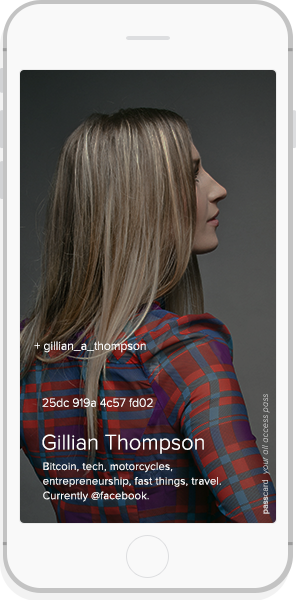
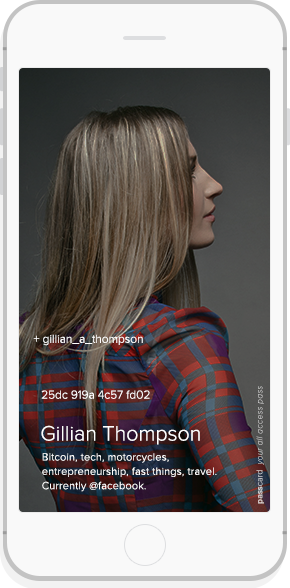
updated css widths by wrapping images so they are both max-width and responsive

diff --git a/dist/views/main.html b/dist/views/main.html
@@ -9,4 +9,4 @@
           c1.9,2.5,3.2,4.7,4.1,6.7l1.3,3c1.1,3.3,3,6,5.7,8.1c2.7,2.1,5.6,3.4,8.6,4c3.1,0.6,6.1,0.9,9,0.9c2.9,0.1,5.3-0.1,7.2-0.5l3-0.5
           c0,3.4,0,7.3,0.1,11.8c0,4.5,0.1,6.9,0.1,7.1c0,1.6-0.5,2.9-1.7,4c-1.1,1.1-2.8,1.4-5.2,0.9c-19.9-6.8-36.2-19-48.8-36.7
           C7.3,144.5,1,124.6,1,102.5c0-18.4,4.4-35.4,13.3-50.9c8.9-15.6,20.9-27.9,36-36.9C65.5,5.5,82,1,100,1s34.5,4.5,49.7,13.6
-          c15.2,9.1,27.2,21.4,36,36.9C194.6,67.1,199,84.1,199,102.5z"/> </g> </svg> </a> </div> <section class=""> <div class="container"> <div class="row"> <div class="container col-md-6 feat-lft featurette"> <div class="container wrap-mob-featpassmini"> <img ng-src="/images/feature-passcard-mini.png" class="img-responsive" alt="Responsive image"> </div> <hgroup> <h2 class="feature"><a href="/enterprise">What is a passcard?</a></h2> <h3 class="feature"><a href="/enterprise">Your all access pass to everything.</a> </h3></hgroup> <p class="lead"><a href="/registrars" class="btn btn-default btn-lg btn-transparent">Learn more</a></p> <img ng-src="/images/arrow-down.png" class="img-responsive col-centered arrow-learn-more" alt="Responsive image"> </div> <div class="container col-md-6 feat-rgt featurette"> <div class="container wrap-mob-featdecentralized"> <img ng-src="/images/feature-decentralized.png" class="img-responsive" alt="Responsive image"> </div> <hgroup> <h2 class="feature"><a href="/enterprise">Decentralized identity</a></h2> <h3 class="feature"><a href="/enterprise">A system giving users control of their identity.</a> </h3></hgroup> <p class="lead"><a href="/registrars" class="btn btn-default btn-lg btn-transparent">Learn more</a></p> <img ng-src="/images/arrow-down.png" class="img-responsive col-centered arrow-learn-more" alt="Responsive image"> </div> </div> </div> </section> <section class="inverted"> <div class="container"> <div class="row"> <div class="container col-xs-11 col-centered"> <hgroup> <h2 class="content">Your passwords, wallet & keys help you access your life.</h2> </hgroup> <img ng-src="/images/objects.png" class="img-responsive col-centered" alt="Responsive image"> </div> </div> </div> </section> <section class="component"> <div class="container"> <div class="row"> <div class="container col-xs-11 col-centered"> <hgroup> <h2 class="content">What if you could replace them all with your passcard?</h2> </hgroup> <img ng-src="/images/iph6-front-back.png" class="img-responsive col-centered" alt="Responsive image"> </div> </div> </div> </section> <section class="inverted"> <div class="container"> <div class="row"> <div class="container col-xs-11 col-centered"> <hgroup> <h2 class="content">Login to your favorite websites without the frustration of passwords.</h2> </hgroup> <img ng-src="/images/iph6-browser.png" class="img-responsive col-centered" alt="Responsive image"> </div> </div> </div> </section> <section class="component"> <div class="container"> <div class="row"> <div class="container col-xs-11 col-centered"> <hgroup> <h2 class="content">Access everything in your life easier than before.</h2> </hgroup> <img ng-src="/images/apl-watch-wireless.png" class="img-responsive col-centered" alt="Responsive image"> </div> </div> </div> </section> <section class="inverted"> <div class="container"> <div class="row"> <div class="container col-xs-11 col-centered"> <hgroup> <h2 class="content">The future of identification is here.</h2> </hgroup> <img ng-src="/images/iph6-apl-watch.png" class="img-responsive col-centered" alt="Responsive image"> </div> </div> </div> </section> <div class="bs-docs-featurette" id="learnmore"> <div class="container col-md-7 col-centered"> <h2>No More Walled Gardens</h2> <p class="lead col-md-10 col-centered">At first, you'll be able to present your digital passport when logging into applications, and eventually you'll be able to use it when asked to present identification in an in-person context (as you would with a passport or driver's license).</p> <div class="row works"> <div class="col-sm-4 feature-panel"> <img ng-src="/images/icon-decentralized.png" class="img-responsive col-centered" alt="Responsive image"> <h3>Decentralized</h3> <p class="lead">There is no central authority or point of failure. Users control their identities and data and can use the apps and services they want.</p> </div> <div class="col-sm-4 feature-panel"> <img ng-src="/images/icon-open-source.png" class="img-responsive col-centered" alt="Responsive image"> <h3>Open Source</h3> <p class="lead">The community's commitment to open source software provides a strong on-ramp for developers to build applications.</p> </div> <div class="col-sm-4 feature-panel"> <img ng-src="/images/icon-blockchain-secured.png" class="img-responsive col-centered" alt="Responsive image"> <h3>Blockchain Secured</h3> <p class="lead">User identities are validated and secured by the blockchain, ensuring user-provided information can't be tampered with.</p> </div> </div> </div> </div> <section class="feature-action"> <div class="container"> <div class="row"> <div class="container col-xs-11 col-centered"> <hgroup> <h2 class="action-title">Get a passcard today</h2> <p class="lead col-md-10 col-centered">Choose a registrar, create your passcard and take back your identity.</p> </hgroup> <p class="lead lead-margin"><a href="/registrars" class="btn btn-default btn-lg color-drkblue btn-action">Choose a Registrar</a></p> </div> </div> </div> </section>
+          c15.2,9.1,27.2,21.4,36,36.9C194.6,67.1,199,84.1,199,102.5z"/> </g> </svg> </a> </div> <section class=""> <div class="container"> <div class="row"> <div class="container col-md-6 feat-lft featurette"> <div class="container wrap-mob-featpassmini"> <img ng-src="/images/feature-passcard-mini.png" class="img-responsive" alt="Responsive image"> </div> <hgroup> <h2 class="feature"><a href="/enterprise">What is a passcard?</a></h2> <h3 class="feature"><a href="/enterprise">Your all access pass to everything.</a> </h3></hgroup> <p class="lead"><a href="/registrars" class="btn btn-default btn-lg btn-transparent">Learn more</a></p> <img ng-src="/images/arrow-down.png" class="img-responsive col-centered arrow-learn-more" alt="Responsive image"> </div> <div class="container col-md-6 feat-rgt featurette"> <div class="container wrap-mob-featdecentralized"> <img ng-src="/images/feature-decentralized.png" class="img-responsive" alt="Responsive image"> </div> <hgroup> <h2 class="feature"><a href="/enterprise">Decentralized identity</a></h2> <h3 class="feature"><a href="/enterprise">A system giving users control of their identity.</a> </h3></hgroup> <p class="lead"><a href="/registrars" class="btn btn-default btn-lg btn-transparent">Learn more</a></p> <img ng-src="/images/arrow-down.png" class="img-responsive col-centered arrow-learn-more" alt="Responsive image"> </div> </div> </div> </section> <section class="inverted"> <div class="container"> <div class="row"> <div class="container col-xs-11 col-centered"> <hgroup> <h2 class="content">Your passwords, wallet & keys help you access your life.</h2> </hgroup> <div class="container wrap-mob-sections"> <img ng-src="/images/objects.png" class="img-responsive col-centered" alt="Responsive image"> </div> </div> </div> </div> </section> <section class="component"> <div class="container"> <div class="row"> <div class="container col-xs-11 col-centered"> <hgroup> <h2 class="content">What if you could replace them all with your passcard?</h2> </hgroup> <div class="container wrap-mob-sections"> <img ng-src="/images/iph6-front-back.png" class="img-responsive col-centered" alt="Responsive image"> </div> </div> </div> </div> </section> <section class="inverted"> <div class="container"> <div class="row"> <div class="container col-xs-11 col-centered"> <hgroup> <h2 class="content">Login to your favorite websites without the frustration of passwords.</h2> </hgroup> <div class="container wrap-mob-sections"> <img ng-src="/images/iph6-browser.png" class="img-responsive col-centered" alt="Responsive image"> </div> </div> </div> </div> </section> <section class="component"> <div class="container"> <div class="row"> <div class="container col-xs-11 col-centered"> <hgroup> <h2 class="content">Access everything in your life easier than before.</h2> </hgroup> <div class="container wrap-mob-sections"> <img ng-src="/images/apl-watch-wireless.png" class="img-responsive col-centered" alt="Responsive image"> </div> </div> </div> </div> </section> <section class="inverted"> <div class="container"> <div class="row"> <div class="container col-xs-11 col-centered"> <hgroup> <h2 class="content">The future of identification is here.</h2> </hgroup> <div class="container wrap-mob-sections"> <img ng-src="/images/iph6-apl-watch.png" class="img-responsive col-centered" alt="Responsive image"> </div> </div> </div> </div> </section> <div class="bs-docs-featurette" id="learnmore"> <div class="container col-md-7 col-centered"> <h2>No More Walled Gardens</h2> <p class="lead col-md-10 col-centered">At first, you'll be able to present your digital passport when logging into applications, and eventually you'll be able to use it when asked to present identification in an in-person context (as you would with a passport or driver's license).</p> <div class="row works"> <div class="col-sm-4 feature-panel"> <img ng-src="/images/icon-decentralized.png" class="img-responsive col-centered" alt="Responsive image"> <h3>Decentralized</h3> <p class="lead">There is no central authority or point of failure. Users control their identities and data and can use the apps and services they want.</p> </div> <div class="col-sm-4 feature-panel"> <img ng-src="/images/icon-open-source.png" class="img-responsive col-centered" alt="Responsive image"> <h3>Open Source</h3> <p class="lead">The community's commitment to open source software provides a strong on-ramp for developers to build applications.</p> </div> <div class="col-sm-4 feature-panel"> <img ng-src="/images/icon-blockchain-secured.png" class="img-responsive col-centered" alt="Responsive image"> <h3>Blockchain Secured</h3> <p class="lead">User identities are validated and secured by the blockchain, ensuring user-provided information can't be tampered with.</p> </div> </div> </div> </div> <section class="feature-action"> <div class="container"> <div class="row"> <div class="container col-xs-11 col-centered"> <hgroup> <h2 class="action-title">Get a passcard today</h2> <p class="lead col-md-10 col-centered">Choose a registrar, create your passcard and take back your identity.</p> </hgroup> <p class="lead lead-margin"><a href="/registrars" class="btn btn-default btn-lg color-drkblue btn-action">Choose a Registrar</a></p> </div> </div> </div> </section>

diff --git a/dist/styles/main.0a514ec3.css b/dist/styles/main.0a514ec3.css
@@ -1,0 +1,5 @@
+/*!
+ * Bootstrap v3.3.2 (http://getbootstrap.com)
+ * Copyright 2011-2015 Twitter, Inc.
+ * Licensed under MIT (https://github.com/twbs/bootstrap/blob/master/LICENSE)
+ *//*! normalize.css v3.0.2 | MIT License | git.io/normalize */.group,.group:after{display:block}.lead,h1,h2,h3,h4,h5{font-weight:100}body,h1,h2,h3,h4,h5{font-family:proxima-nova,sans-serif}.site-wrapper,.st-container{min-height:100%}::selection{background:rgba(255,255,255,.15);color:#fff}::-moz-selection{background:rgba(255,255,255,.15);color:#fff}.group:after{visibility:hidden;font-size:0;content:" ";clear:both;height:0}* html .group{height:1%}.docs-container{text-align:left}.markdown-section img{max-width:100%}a,a:focus,a:hover{color:rgba(255,255,255,1)}.lead{font-size:15px}h2{font-size:24px;line-height:34px;margin-top:20px;margin-bottom:20px}.color-blue,.color-ltblue{color:rgba(0,102,255,1)}.color-drkblue{color:rgba(1,68,145,1)}.btn-default{text-shadow:none;border:none;border-radius:3px;transition:all 25ms linear}.btn-lg{padding:12px 33px 10px;font-size:10px;font-weight:400;text-transform:uppercase;letter-spacing:.5px}.btn-default:active,.btn-default:focus,.btn-default:hover{border:none;background-color:rgba(255,255,255,.5);outline:0!important;box-shadow:none}.btn-default.color-blue:active,.btn-default.color-blue:focus,.btn-default.color-blue:hover{color:rgba(0,102,255,1)}.btn-default.color-drkblue:active,.btn-default.color-drkblue:focus,.btn-default.color-drkblue:hover{color:rgba(1,68,145,1)}.btn-transparent{padding:10px;font-size:9px;background-color:transparent;color:rgba(138,197,255,1)}.btn-transparent:active,.btn-transparent:focus,.btn-transparent:hover{border:none;background-color:transparent;color:rgba(255,255,255,1);outline:0!important;box-shadow:none}.btn-transparent,.btn-transparent:active,.btn-transparent:focus,.btn-transparent:hover{font-weight:300}.lead-margin{margin-bottom:12px}body,html{height:auto!important}body{color:#fff;text-align:center;font-weight:100!important}.site-wrapper{display:table;width:100%;height:100%;box-shadow:inset 0 0 100px rgba(0,0,0,.5)}.site-wrapper-inner{display:table-cell;vertical-align:top}.cover-container{margin-right:auto;margin-left:auto;height:100%}.inner{padding:20px}.githublink{position:absolute;top:15px;right:15px;border:0;width:18px;height:18px;fill:rgba(255,255,255,1)}.githublink:hover{fill:rgba(255,255,255,.5)}.no-csstransforms3d .st-pusher,.no-js .st-pusher{padding-left:0}.st-menu ul{margin-bottom:10px}.st-menu{width:256px;text-align:left;background:#1d1f20;background:linear-gradient(to bottom,#1d1f20 0,#404348 100%);filter:progid:DXImageTransform.Microsoft.gradient(startColorstr='#1d1f20', endColorstr='#404348', GradientType=0)}.st-menu ul li a:hover,.st-menu ul li:first-child a:focus{color:rgba(255,255,255,1);text-decoration:none;background-color:rgba(255,255,255,.1);transition:none}.st-menu ul li a,.st-menu ul li:first-child a{box-shadow:none;color:#fff;display:block;padding:10px 20px;text-transform:none;font-weight:200;letter-spacing:0;font-size:100%/1.4em}.st-menu h2{color:rgba(255,255,255,.75);font-size:17px;margin:10px 0}.st-effect-3.st-menu-open .st-pusher{-webkit-transform:translate3d(256px,0,0);transform:translate3d(256px,0,0)}.menu-section-list{padding:0;margin:10px 0!important;list-style:none}.menu-section{margin:25px 0}.menu a{color:#fff}.menu-header{border-bottom:1px solid #2a2d2f;padding:20px 0 20px 20px;background-size:32px}.menu-section-title{text-transform:uppercase;color:#85888d;font-weight:200;font-size:12px;letter-spacing:1px;padding:0 20px;margin:0}.menu-header-title{margin:0 0 0 10px}.twitter-hashtag-button{margin-left:20px}.jumbotron{margin-top:30px!important;padding:40px 25px;border-radius:6px;background-color:#F2F2F0;margin-bottom:300px!important;box-shadow:rgba(0,0,0,.1)0 0 25px}.jumbotron .lead{color:#343434;font-weight:300;letter-spacing:0}h1.passregistrar{color:#343434;font-weight:300!important;letter-spacing:0;font-size:24px}h2.feature a{font-weight:200;letter-spacing:0;font-size:20px;text-decoration:none}h3.feature a{font-weight:100;letter-spacing:0;font-size:14px;text-decoration:none}a.btn.btn-primary.btn-lg.btn-registrar{font-weight:500!important;display:block;margin:8px;background-color:#2c96ff;border-color:transparent}a.btn.btn-primary.btn-lg.btn-registrar:hover{background-color:#2378cc;border-color:transparent}.navbar-inverse .navbar-toggle,.navbar-inverse .navbar-toggle:active,.navbar-inverse .navbar-toggle:focus,.navbar-inverse .navbar-toggle:hover{float:left;padding:9px 11px;border-color:transparent;margin:7px 2px;background:0 0}.navbar-toggle .icon-bar{display:block;width:12px;height:1px;border-radius:1px;background-color:#fff}.starter-template{padding:40px 15px;text-align:center}.navbar-brand{font-size:16px;font-weight:300;padding-bottom:5px;margin-left:-53px}.component,.inverted{padding-top:60px;padding-bottom:40px}.col-centered{float:none;margin:15px auto}.navbar-inverse .navbar-nav>li>a{padding-top:16px;font-size:13px;color:rgba(255,255,255,1)}.navbar-inverse{background:0 0;border-color:transparent}.navbar-inverse .navbar-brand{color:rgba(255,255,255,1);float:none}.navbar-toggle .icon-bar+.icon-bar{margin-top:3px}.navbar-inverse .navbar-brand:focus,.navbar-inverse .navbar-brand:hover,.navbar-inverse .navbar-nav>li>a:focus,.navbar-inverse .navbar-nav>li>a:hover{color:rgba(255,255,255,.5)}.cover h1,.cover p{font-weight:100;margin-top:0}.masthead-brand{margin-top:10px;margin-bottom:10px}.masthead-nav>li{display:inline-block}.masthead-nav>li+li{margin-left:20px}.masthead-nav>li>a{padding-right:0;padding-left:0;font-size:16px;color:#fff;color:rgba(255,255,255,.75);border-bottom:2px solid transparent}.masthead-nav>li>a:focus,.masthead-nav>li>a:hover{background-color:transparent;border-bottom-color:#a9a9a9;border-bottom-color:rgba(255,255,255,.25)}.masthead-nav>.active>a,.masthead-nav>.active>a:focus,.masthead-nav>.active>a:hover{color:#fff;border-bottom-color:#fff}.conatainer-fluid.col-centered ul{list-style:none}.navbar{margin-bottom:0}.st-content{background:0 0}.featurette>img.feat-img{padding-left:10%;padding-right:10%}.feat-lft{background-color:rgba(38,125,255,1)}.feat-rgt{background-color:rgba(0,87,217,1)}.inverted{background-color:rgba(33,33,33,1)}.component{background-color:rgba(0,102,255,1)}h2.content{font-weight:100;letter-spacing:0;font-size:24px;margin-bottom:60px}.cover-heading{font-size:22px;margin-bottom:28px}.bs-docs-featurette{padding-top:40px;padding-bottom:40px;font-size:16px;line-height:1.5;text-align:center;background-color:rgba(38,125,255,1)}.bs-docs-featurette-title{margin-bottom:5px;font-size:30px}.feature-panel{margin:40px 0}.feature-panel>img{margin:0;padding:0 18%}.feature-panel>h3{margin-bottom:10px;display:block;font-size:1.17em}.works{margin-top:30px;margin-bottom:30px;padding:0 12%}.inner.cover{padding-bottom:0;padding-top:90px;margin-bottom:0;margin-top:-90px;background-color:rgba(0,102,255,1)}.solid{background-color:#3a73cd;color:#fff}.feature-action{background-color:rgba(1,68,145,1)}.action-title{margin-top:120px}.btn-action{margin-top:50px;margin-bottom:180px}img.arrow-down{width:12px;padding-bottom:13px}.btn-works img{margin-top:-21px}img.arrow-learn-more{padding-left:48%;padding-right:48%}.arrow-learn-more{margin-top:-18px!important;margin-bottom:25px!important}.img-re-constraint{max-width:90%}.wrap-mob-hero{max-width:320px;margin-bottom:50px;margin-left:auto;margin-right:auto}.wrap-mob-featdecentralized,.wrap-mob-featpassmini{max-width:330px}.wrap-mob-sections{max-width:430px}.mastfoot{position:relative;color:rgba(255,255,255,.5);font-size:12px;height:100px;width:100%;background-color:#222}@media (min-width:768px){.masthead-brand{float:left}.masthead-nav{float:right}.jumbotron{width:404px;margin-top:100px!important}.masthead{position:fixed;top:0}.mastfoot{position:relative}.cover-container,.mastfoot,.masthead{width:100%}.navbar-inverse .navbar-brand{float:left}.navbar-text{float:left;margin:18px 35px 15px 0}.navbar-inverse .navbar-toggle,.navbar-inverse .navbar-toggle:active,.navbar-inverse .navbar-toggle:focus,.navbar-inverse .navbar-toggle:hover{float:left;display:block;padding:9px 11px;border-color:transparent;margin:20px 10px;background:0 0}.container-fluid>.navbar-collapse,.container-fluid>.navbar-header,.container>.navbar-collapse,.container>.navbar-header{margin-left:-15px;margin-right:20px}.col-centered{margin:10px auto}.cover{padding:30px 20px 100px;margin-top:0;margin-bottom:0}.lead{margin-bottom:50px}}@media (min-width:992px){.cover-heading{font-size:2.5em}.mastfoot{position:relative}}.ng-cloak,[ng-cloak],[ng\:cloak]{display:none!important}

diff --git a/dist/index.html b/dist/index.html
@@ -1,4 +1,4 @@
-<!doctype html> <html class="no-js"> <head> <base href="/"> <meta charset="utf-8"> <meta http-equiv="X-UA-Compatible" content="IE=edge,chrome=1"> <meta name="description" content="Passcard login id identity"> <meta name="viewport" content="width=device-width,initial-scale=1,minimal-ui"> <title>Passcard</title> <!-- Apple Device Icons --> <link rel="apple-touch-icon" sizes="29x29" href="/images/passcard-apple-touch-29.png"> <link rel="apple-touch-icon" sizes="40x40" href="/images/passcard-apple-touch-40.png"> <link rel="apple-touch-icon" sizes="58x58" href="/images/passcard-apple-touch-58.png"> <link rel="apple-touch-icon" sizes="60x60" href="/images/passcard-apple-touch-60.png"> <link rel="apple-touch-icon" sizes="76x76" href="/images/passcard-apple-touch-76.png"> <link rel="apple-touch-icon" sizes="80x80" href="/images/passcard-apple-touch-80.png"> <link rel="apple-touch-icon" sizes="120x120" href="/images/passcard-apple-touch-120.png"> <link rel="apple-touch-icon" sizes="152x152" href="/images/passcard-apple-touch-152.png"> <link rel="shortcut icon" href="/favicon.ico?v=2"> <!-- Place favicon.ico and apple-touch-icon.png in the root directory --> <link rel="stylesheet" href="styles/vendor.a4bfe288.css"> <link rel="stylesheet" href="styles/main.3cc4bfa7.css">  <body ng-app="digitalpassportApp" ng-cloak> <!--[if lt IE 7]>
+<!doctype html> <html class="no-js"> <head> <base href="/"> <meta charset="utf-8"> <meta http-equiv="X-UA-Compatible" content="IE=edge,chrome=1"> <meta name="description" content="Passcard login id identity"> <meta name="viewport" content="width=device-width,initial-scale=1,minimal-ui"> <title>Passcard</title> <!-- Apple Device Icons --> <link rel="apple-touch-icon" sizes="29x29" href="/images/passcard-apple-touch-29.png"> <link rel="apple-touch-icon" sizes="40x40" href="/images/passcard-apple-touch-40.png"> <link rel="apple-touch-icon" sizes="58x58" href="/images/passcard-apple-touch-58.png"> <link rel="apple-touch-icon" sizes="60x60" href="/images/passcard-apple-touch-60.png"> <link rel="apple-touch-icon" sizes="76x76" href="/images/passcard-apple-touch-76.png"> <link rel="apple-touch-icon" sizes="80x80" href="/images/passcard-apple-touch-80.png"> <link rel="apple-touch-icon" sizes="120x120" href="/images/passcard-apple-touch-120.png"> <link rel="apple-touch-icon" sizes="152x152" href="/images/passcard-apple-touch-152.png"> <link rel="shortcut icon" href="/favicon.ico?v=2"> <!-- Place favicon.ico and apple-touch-icon.png in the root directory --> <link rel="stylesheet" href="styles/vendor.a4bfe288.css"> <link rel="stylesheet" href="styles/main.0a514ec3.css">  <body ng-app="digitalpassportApp" ng-cloak> <!--[if lt IE 7]>
       <p class="browsehappy">You are using an <strong>outdated</strong> browser. Please <a href="http://browsehappy.com/">upgrade your browser</a> to improve your experience.</p>
     <![endif]--> <div id="st-container" class="st-container"> <div class="cover-container"> <!-- Sidebar-transition "Push effect 3" is under the push wrapper --> <div class="st-pusher"> <!-- Sidebar --> <nav id="menu3" class="st-menu st-effect-3 menu slideout-menu" ng-controller="NavCtrl"> <a href="/"> <header class="menu-header"> <i class="fa fa-connectdevelop"></i><span class="menu-header-title">Home</span> </header> </a> <section class="menu-section"> <h3 class="menu-section-title">Consumers</h3> <ul class="menu-section-list"> <li> <a href="/registrars">Choose a registrar</a> </li> <li> <a href="/#learnmore" ng-click="scroll()">Learn more</a> </li> </ul> </section> <section class="menu-section"> <h3 class="menu-section-title">Docs</h3> <ul class="menu-section-list"> <li><a href="/docs/Home">Developer Overview</a></li> <li><a href="/docs/Protocol-Design">Protocol Design</a></li> <li><a href="/docs/FAQ">FAQ</a></li> <li><a href="https://github.com/openname/specifications/issues" target="_blank">Make a suggestion</a></li> </ul> </section> <section class="menu-section"> <ul class="menu-section-list"> <a href="https://twitter.com/intent/tweet?button_hashtag=passcard&text=Verify%20your%20identity.%20Get%20your%20passcard" class="twitter-hashtag-button" data-size="large" data-url="http://passcard.info">Tweet #passcard</a> <script>!function(d,s,id){var js,fjs=d.getElementsByTagName(s)[0],p=/^http:/.test(d.location)?'http':'https';if(!d.getElementById(id)){js=d.createElement(s);js.id=id;js.src=p+'://platform.twitter.com/widgets.js';fjs.parentNode.insertBefore(js,fjs);}}(document, 'script', 'twitter-wjs');</script> </ul> </section> </nav> <!-- / Sidebar --> <div class="st-content"><!--  ...  This is the wrapper for the content  ...  --> <div class="st-content-inner"><!--  ...  Extra div for emulating position:fixed of the menu  ...  --> <!-- Top Navigation --> <div class="main clearfix" id="main"> <!-- / Navbar --> <nav class="navbar navbar-inverse navbar-top"> <div class="container-fluid"> <!--  ...  Brand and toggle get grouped for better mobile display  ...  --> <div id="st-trigger-effects" class="navbar-header"> <button type="button" class="navbar-toggle" data-effect="st-effect-3"> <span class="icon-bar"></span> <span class="icon-bar"></span> <span class="icon-bar"></span> </button> </div> <!--<div class="container-fluid col-centered">
                       <ul>

diff --git a/app/views/main.html b/app/views/main.html
@@ -68,7 +68,9 @@
         <hgroup>
           <h2 class="content">Your passwords, wallet & keys help you access your life.</h2>
         </hgroup>
-        <img ng-src="/images/objects.png" class="img-responsive col-centered" alt="Responsive image">
+        <div class="container wrap-mob-sections">
+          <img ng-src="/images/objects.png" class="img-responsive col-centered" alt="Responsive image">
+        </div>
       </div>
     </div>
   </div>
@@ -80,7 +82,9 @@
         <hgroup>
           <h2 class="content">What if you could replace them all with your passcard?</h2>
         </hgroup>
-        <img ng-src="/images/iph6-front-back.png" class="img-responsive col-centered" alt="Responsive image">
+        <div class="container wrap-mob-sections">
+          <img ng-src="/images/iph6-front-back.png" class="img-responsive col-centered" alt="Responsive image">
+        </div>
       </div>
     </div>
   </div>
@@ -92,7 +96,9 @@
         <hgroup>
           <h2 class="content">Login to your favorite websites without the frustration of passwords.</h2>
         </hgroup>
-        <img ng-src="/images/iph6-browser.png" class="img-responsive col-centered" alt="Responsive image">
+        <div class="container wrap-mob-sections">
+          <img ng-src="/images/iph6-browser.png" class="img-responsive col-centered" alt="Responsive image">
+        </div>
       </div>
     </div>
   </div>
@@ -104,7 +110,9 @@
         <hgroup>
           <h2 class="content">Access everything in your life easier than before.</h2>
         </hgroup>
-        <img ng-src="/images/apl-watch-wireless.png" class="img-responsive col-centered" alt="Responsive image">
+        <div class="container wrap-mob-sections">
+          <img ng-src="/images/apl-watch-wireless.png" class="img-responsive col-centered" alt="Responsive image">
+        </div>
       </div>
     </div>
   </div>
@@ -116,7 +124,9 @@
         <hgroup>
           <h2 class="content">The future of identification is here.</h2>
         </hgroup>
-        <img ng-src="/images/iph6-apl-watch.png" class="img-responsive col-centered" alt="Responsive image">
+        <div class="container wrap-mob-sections">
+          <img ng-src="/images/iph6-apl-watch.png" class="img-responsive col-centered" alt="Responsive image">
+        </div>
       </div>
     </div>
   </div>

diff --git a/app/styles/main.css b/app/styles/main.css
@@ -158,9 +158,9 @@ div.container.col-xs-11.col-centered {}
 
 
 /* -- Responsive max-width wrappers -- */
-.wrap-mob-hero {max-width: 300px; margin-bottom:50px; margin-left:auto; margin-right:auto;}
-.wrap-mob-featpassmini {max-width: 300px;}
-.wrap-mob-featdecentralized {max-width: 300px;}
+.wrap-mob-hero {max-width: 320px; margin-bottom:50px; margin-left:auto; margin-right:auto;}
+.wrap-mob-featpassmini, .wrap-mob-featdecentralized {max-width: 330px;}
+.wrap-mob-sections {max-width: 430px;}
 
 
 /* Footer */
